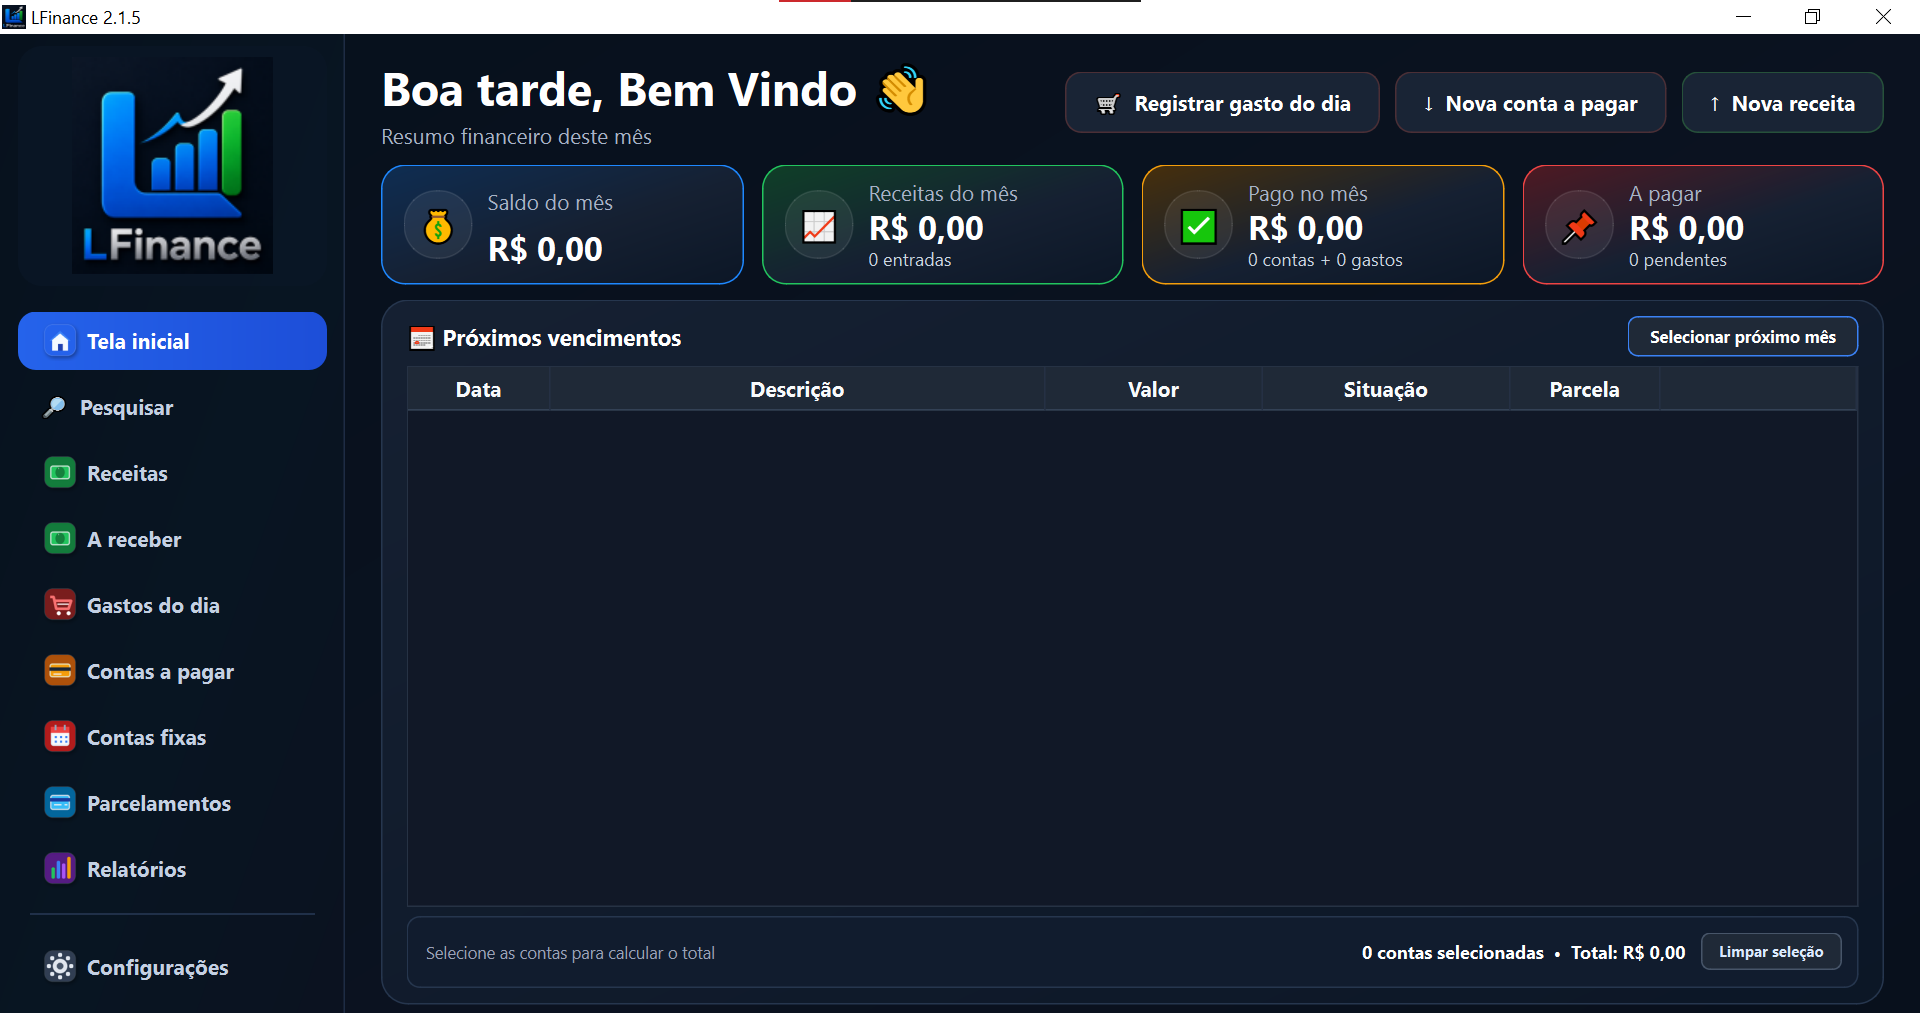
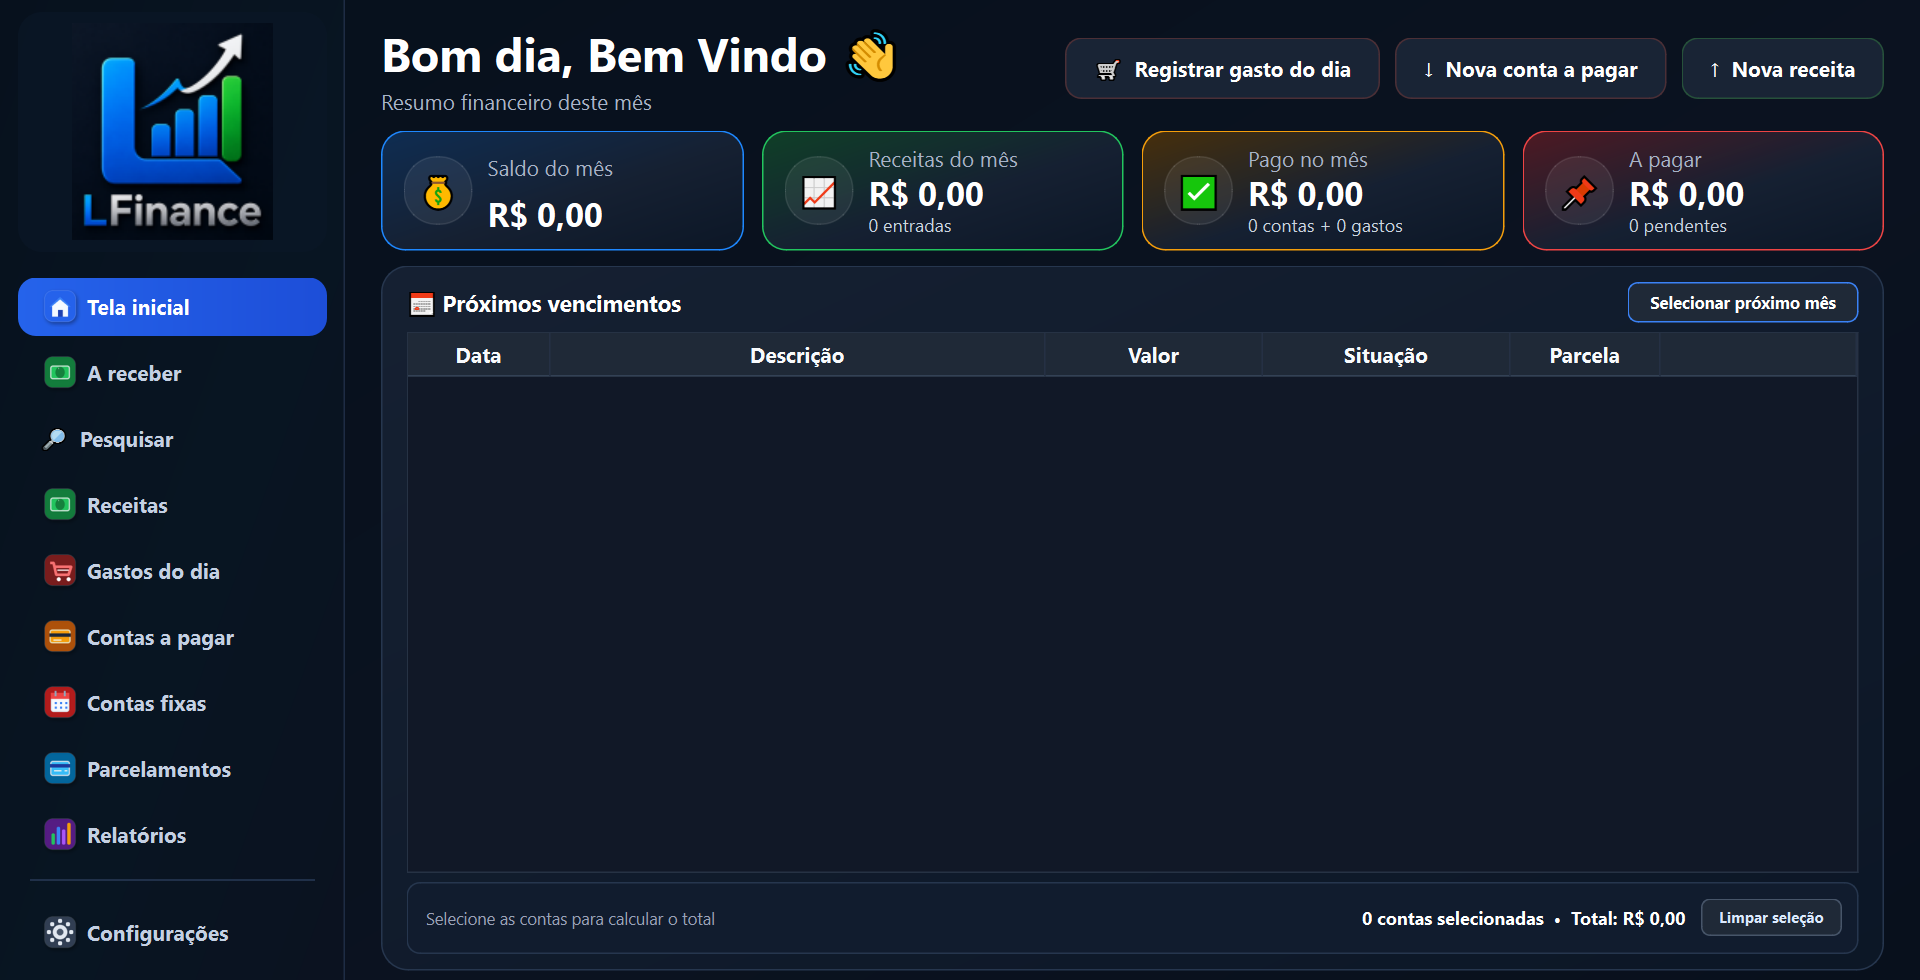
docs: atualiza apresentacao do LFinance

diff --git a/README.md b/README.md
@@ -1,56 +1,57 @@
-# LFinance 2.1.10
+# LFinance
 
-Sistema financeiro pessoal para Windows.
+Sistema financeiro pessoal para Windows, desenvolvido em Python, PySide6 e SQLite.
 
 ![Tela inicial do LFinance](docs/lfinance-tela-inicial.png)
 
-## Conheça o LFinance
+## Versão atual
 
-Uma visão simples das receitas, contas a pagar, gastos, parcelamentos e valores a receber, com os próximos vencimentos sempre em destaque.
+**LFinance 2.1.11**
 
-## Situação do projeto
+[Baixar a versão mais recente](https://github.com/iuriloose/LFinance/releases/latest)
 
-Versão 2.0 em desenvolvimento, baseada na versão estável 1.0.7:
+## Principais recursos
 
-- nova tela Valores a receber, sem alterar a Tela inicial;
-- controle por pessoa ou empresa, previsão, categoria e situação;
-- recebimentos totais, parciais ou acima do previsto, vinculados automaticamente a Receitas;
-- recorrência quinzenal ou mensal, com histórico preservado;
-- compatibilidade com backups da versão 1.0.7;
-- testes executados somente em perfil temporário.
+- Tela inicial com resumo financeiro e próximos vencimentos.
+- Área **A receber** para valores previstos e recebimentos.
+- Receitas, gastos do dia, contas a pagar, contas fixas e parcelamentos.
+- Filtros e navegação por mês nas principais telas financeiras.
+- Categorias personalizadas.
+- Relatórios detalhados.
+- Backup e restauração do banco de dados.
+- Verificação automática de novas versões.
 
-## Banco de dados
+## Dados do usuário
 
-O banco do usuário não deve ficar dentro da pasta do programa instalado.
-
-No Windows, o LFinance usa:
+Os dados ficam fora da pasta de instalação:
 
 `%LOCALAPPDATA%\LFinance\lfinance.db`
 
-Isso evita perda de dados ao atualizar ou substituir o executável.
+Assim, as atualizações do programa não substituem o banco de dados.
 
 ## Atualizações
 
-Ao iniciar, o LFinance consulta automaticamente a Release mais recente no repositório oficial.
-Se houver uma versão nova, mostra as novidades e oferece o instalador oficial somente após confirmação do usuário.
-A verificação manual continua disponível em Configurações > Sobre o LFinance.
+O LFinance verifica automaticamente a Release mais recente no GitHub.
 
-## Gerar EXE
+Quando houver uma nova versão, o programa avisa o usuário e oferece o instalador oficial.
 
-Execute sem atualizar dependências implicitamente:
+> Antes de instalar uma atualização, feche o LFinance.
+
+## Desenvolvimento
+
+Gerar executável:
 
 `python -m PyInstaller --clean --noconfirm LFinance.spec`
 
-O arquivo final será criado em:
+Executável:
 
-`dist\LFinance.exe`
+`dist\LFinance\LFinance.exe`
 
-## Testes seguros
+Gerar instalador:
 
-Os testes usam um perfil temporário e nunca apontam para o banco real do usuário:
+`& "C:\Program Files (x86)\Inno Setup 6\ISCC.exe" ".\LFinance.iss"`
 
-`python -m unittest discover -s tests -v`
+---
 
-
-Desenvolvido por Iuri Loose.
-© 2026 Iuri Loose. Todos os direitos reservados.
+Desenvolvido por **Iuri Loose**.  
+© 2026 Iuri Loose.
